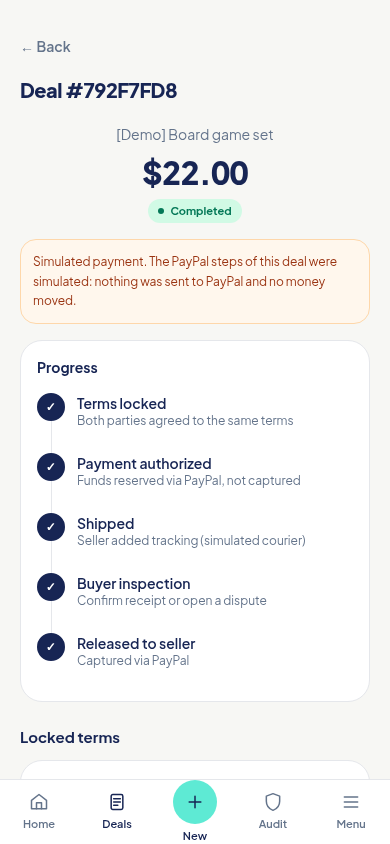
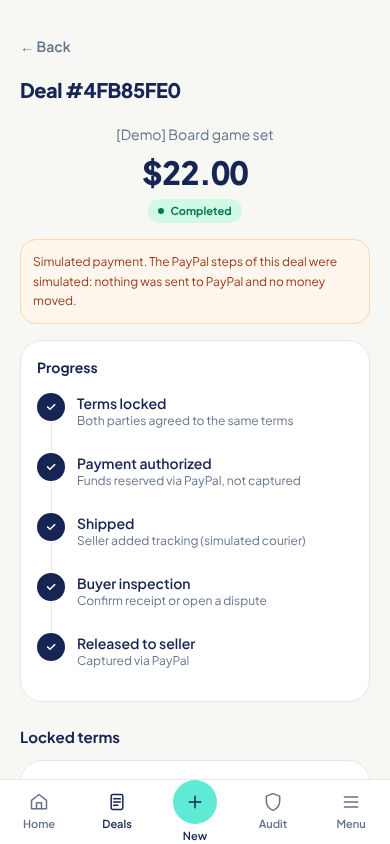
docs: refresh README screenshots at phone viewport; HANDOFF after C6-C10
Claude-Session: https://claude.ai/code/session_0166tJEPa1jLHSnUbmFLosPn

diff --git a/docs/HANDOFF.md b/docs/HANDOFF.md
@@ -62,16 +62,10 @@ audit chain verified, no console errors.
 Not verified yet (needs the owner or a public URL): real Sandbox run of the smoke script
 and the JSON routes, real webhook delivery, any live AI provider call.
 
-## Active agent (2026-10-21 09:15 WIB)
+## Active agent
 
-**Codex** works through prompts C6-C10; Claude is inactive meanwhile. Each prompt:
-branch from the latest `origin/main` (never from another task branch), push the branch,
-add a log entry here. Claude reviews, opens and merges the PRs afterwards.
-C6 decisions bound to terms and evidence hashes · C7 signed audit checkpoints ·
-C8 audit CSV export (C6-C8 = owner's "CloneIDE" batch) · C9 decided dispute in the demo
-seed · C10 refreshed README screenshots.
-C1-C5 are merged. `docs/RECONCILIATION.md` (C5) is a proposal only: do not implement it
-without the owner's approval.
+None right now (2026-10-21 15:55 WIB). Codex C1-C10 are merged. `docs/RECONCILIATION.md`
+is a proposal only: do not implement it without the owner's approval.
 
 ## How to run
 
@@ -135,6 +129,15 @@ Still open:
 
 ## Log
 
+- 2026-10-21 15:55 WIB (Claude): reviewed and merged Codex C6-C10 (decision hashes, signed
+  audit checkpoints, audit CSV export, seeded resolved dispute, README screenshots).
+  Resolved import conflicts between C6 and C8. Fixed: seeded decision now records
+  termsHash/evidenceDigest like the review API; status pill no longer wraps in page
+  headers; audit list hides per-deal checkpoint lines when no checkpoint exists. Retook
+  docs/ui/screens at phone viewport. 152 tests, typecheck, build; Chromium check of
+  receipt, audit, CSV export, fairness, no console errors. No checkpoint has been
+  published yet: the owner runs `npm run checkpoint -- --generate-key` once, keeps the
+  private key in .env, then `npm run checkpoint`.
 - 2026-10-21 15:26 WIB (Codex, C10): captured 11 current-app PNGs under
   `docs/ui/screens/` using production Chromium automation, `PAYPAL_MODE=simulated`,
   replay AI, and a fresh temp SQLite database seeded through Menu. Nine light
